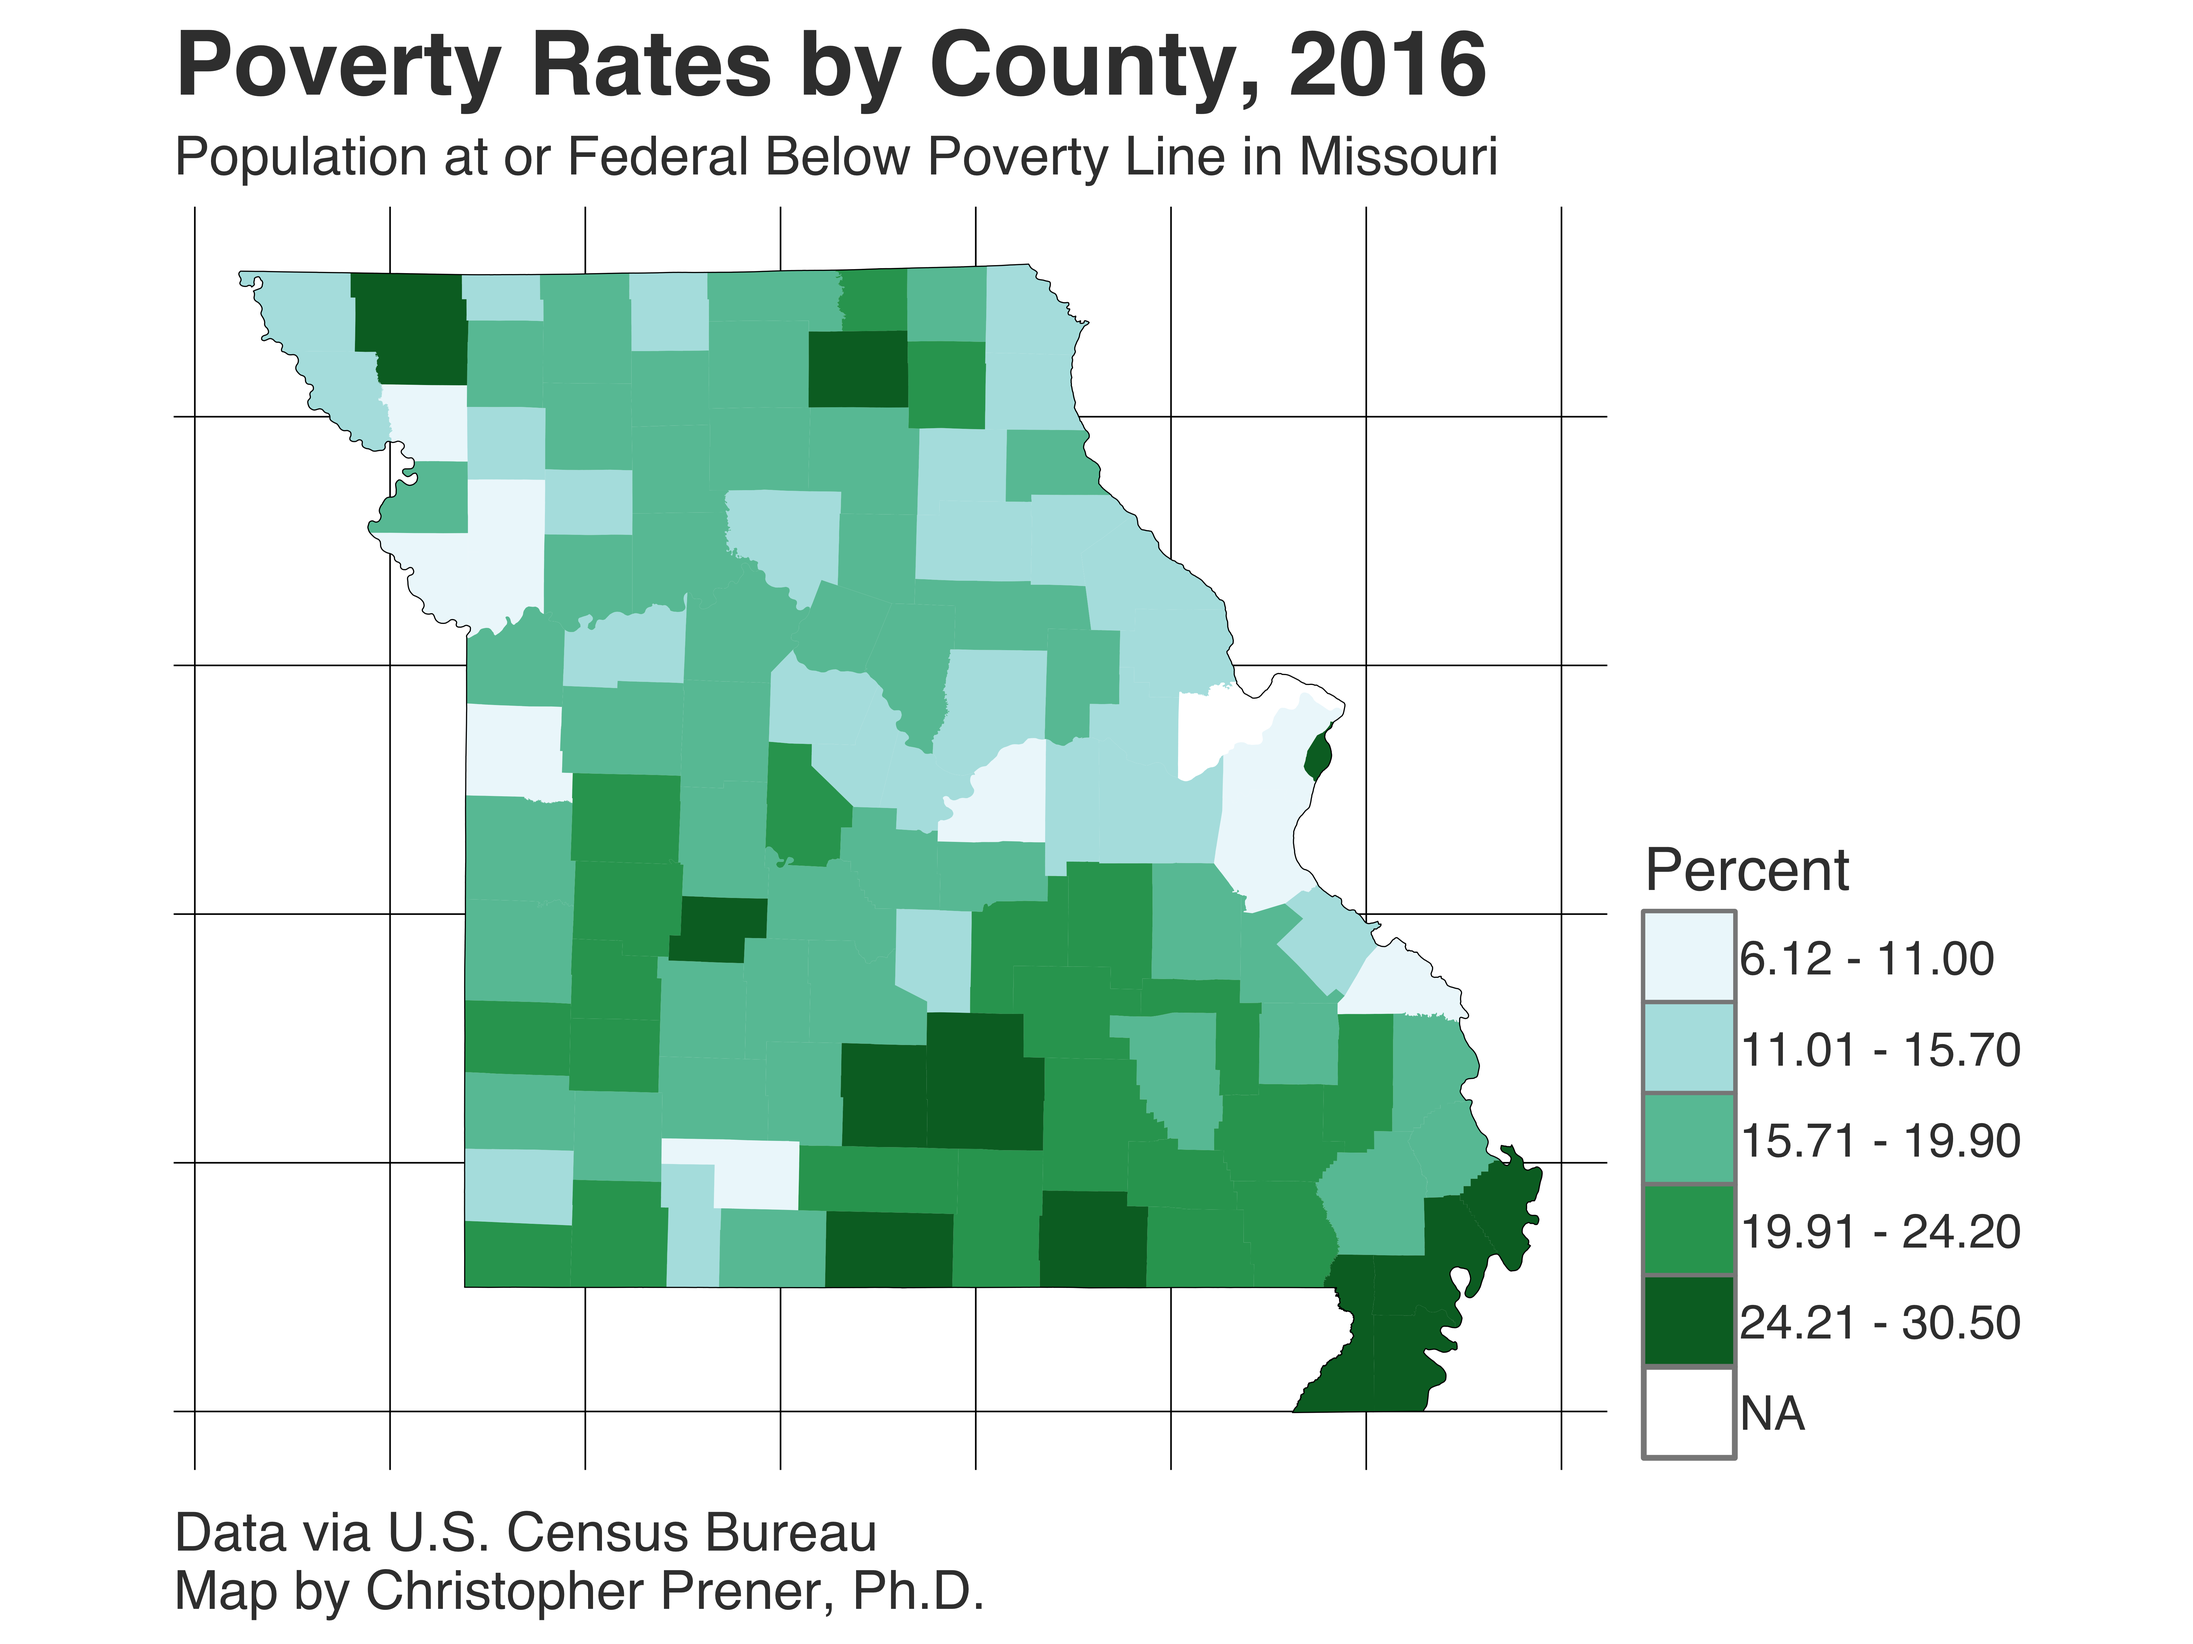
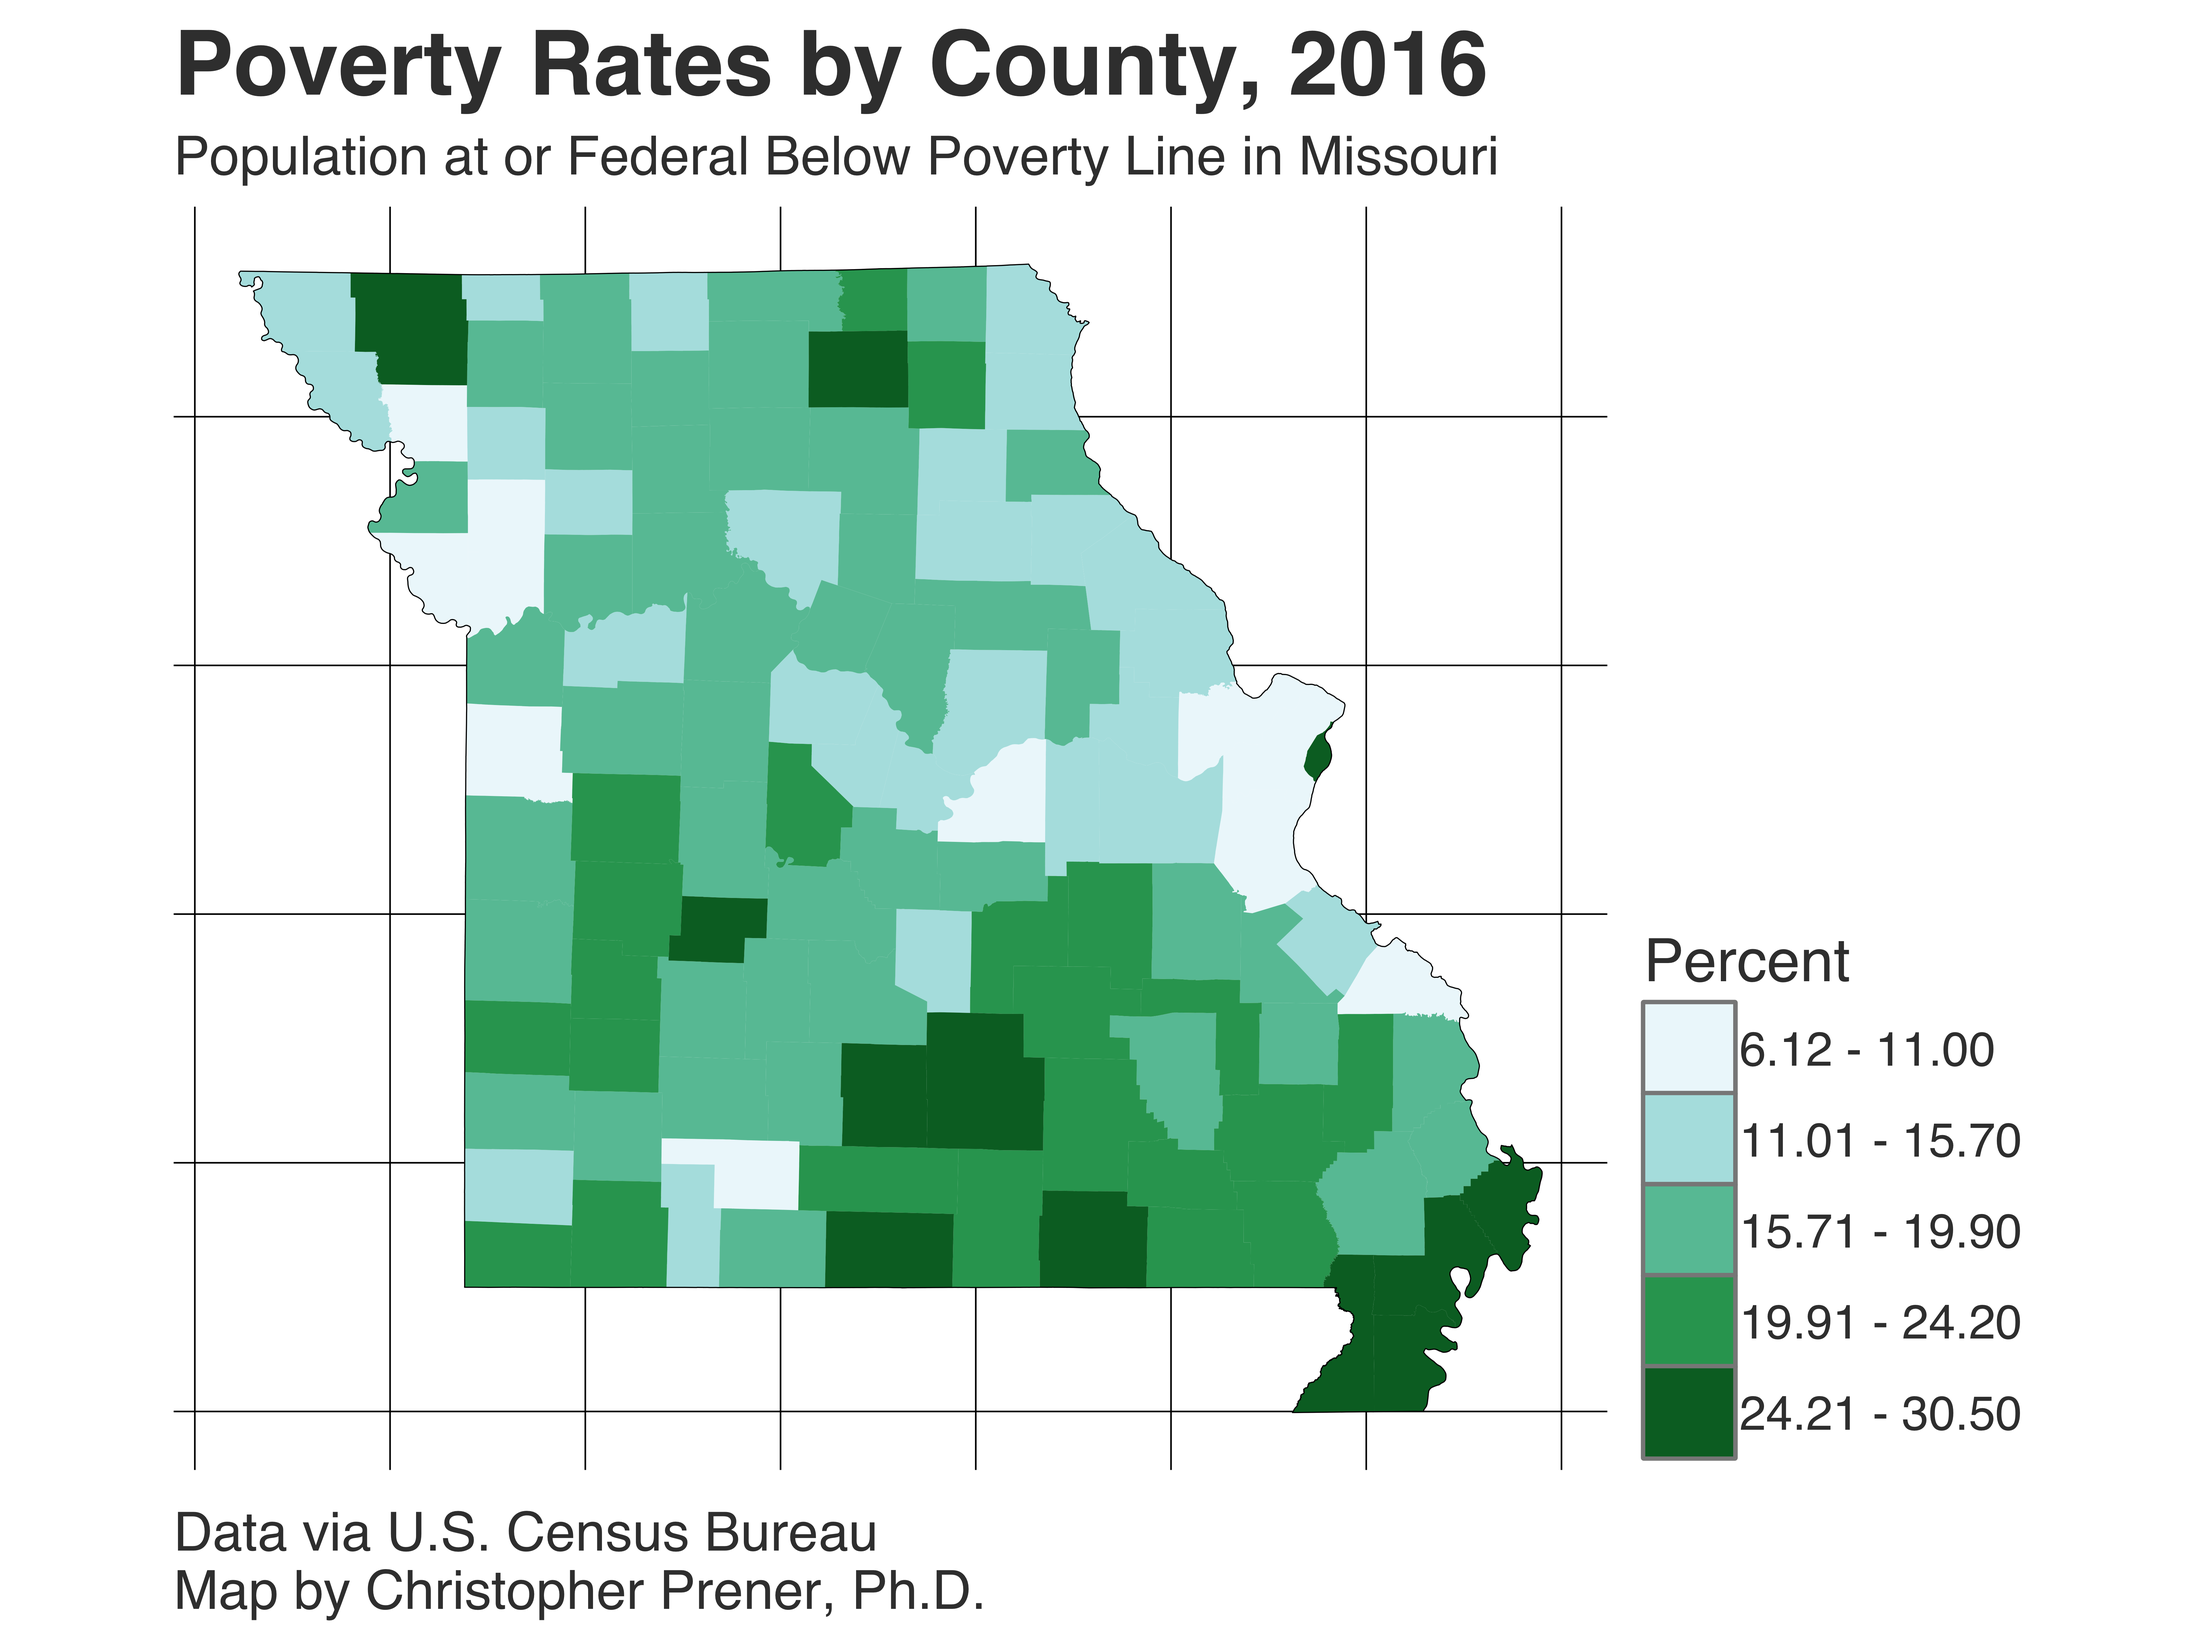
update map legends and code

diff --git a/NEWS.md b/NEWS.md
@@ -1,3 +1,8 @@
+# MO_DEMOS_countyPoverty v0.1.1
+
+* Update code to use new `prener::cp_breaks` function
+* New breaks function removes the `NA` value from the legend
+
 # MO_DEMOS_countyPoverty v0.1.0
 
 * Add map images for poverty rates by county in Missouri for 2016
